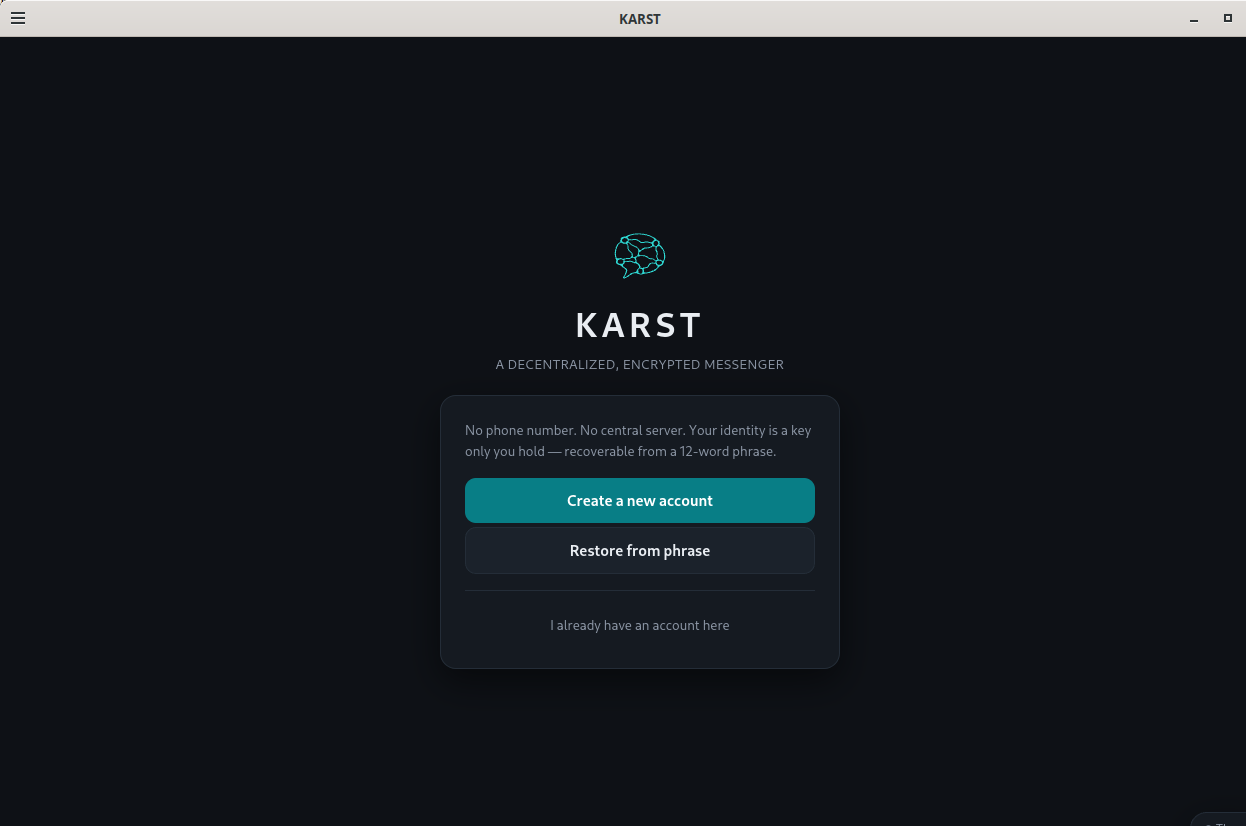
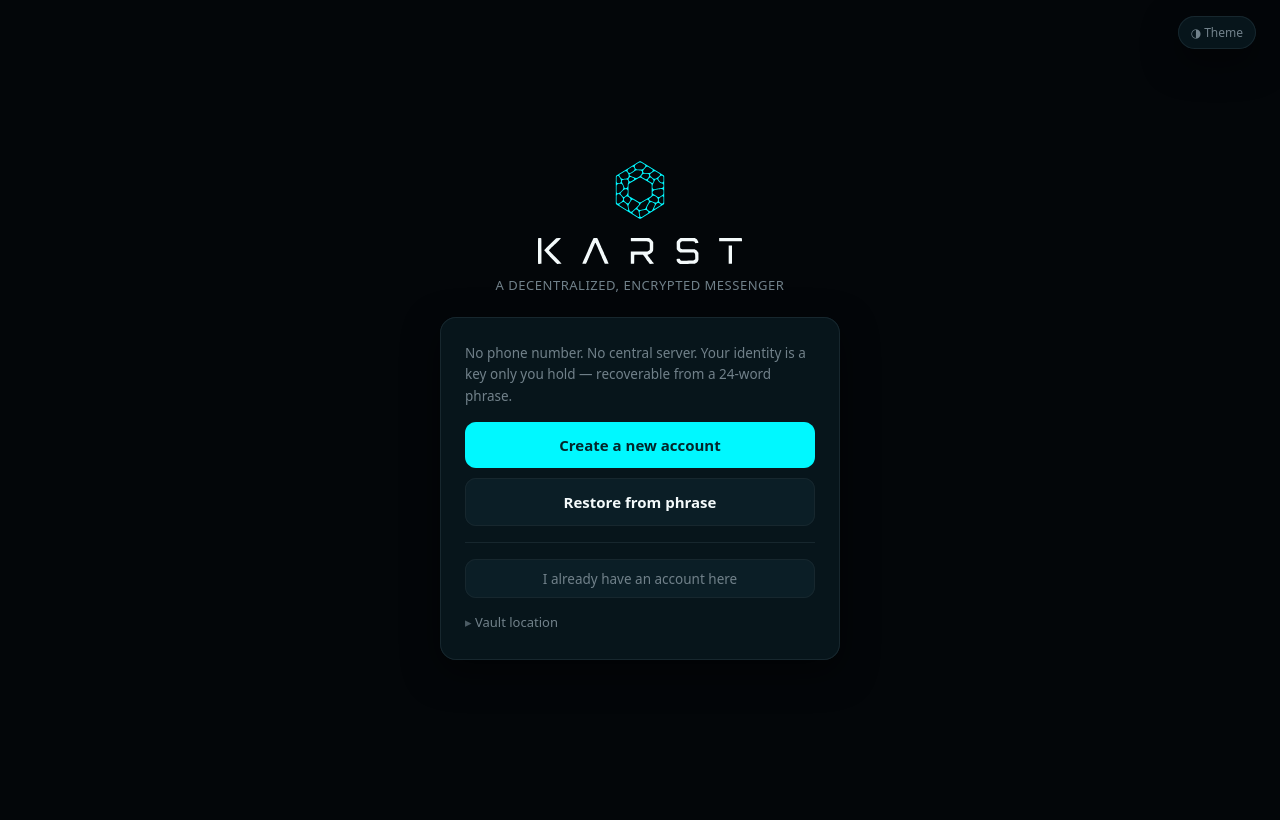
Re-take every screenshot in the README, by running the thing
All five images in "See it running" were eleven days old, and every one of them showed a product that
no longer exists.

- The desktop frames carried the old mark, the old teal, and a welcome screen reading "12-word
  phrase" — the phrase has been 24 words for a while. A README that states a false fact about the
  product is the same rot that killed the seed examples.
- The relay frame said "SKELETON, NOT for production" and listed six lines. The relay prints
  "REFERENCE build" and thirteen: QUIC, blob durability, mail durability, what admission rests on,
  the PoW bound, the node-list page, the admin socket, gossip, and the connect box.
- The messaging frame was a HAND-AUTHORED transcript, complete with a "# 12-word phrase" comment
  that was never program output, under a caption promising "real output from a real run".

Replaced with frames rendered from captured output. The relay banner and the demo transcript are
verbatim `karst-relay` / `scripts/karst-demo.sh` output with build noise and repeated carrier lines
removed and nothing added; the app and settings frames are the real UI. The relay command moved OUT
of the image into a copyable fenced block, because a command inside a PNG cannot be copied and — the
concrete reason — the first capture put a command in the frame that did not match the flags actually
used, so the picture disagreed with itself.

Two frames that had no place in the README now have one: a conversation with the safety number and a
[…]

diff --git a/impl/client/src/bin/karst.rs b/impl/client/src/bin/karst.rs
@@ -67,7 +67,7 @@ fn main() -> ExitCode {
 
 fn print_usage() {
     eprintln!(
-        "karst (SKELETON, not for production)\n\
+        "karst (REFERENCE, not for production)\n\
          \n\
          karst init                          create an account (prints the recovery phrase)\n\
          karst restore <24 words>            restore an account from the phrase (into an empty $KARST_HOME)\n\

diff --git a/README.md b/README.md
@@ -28,13 +28,28 @@ The desktop client — no phone number, no signup; your identity is a 24-word ph
 
 <p align="center"><img src="docs/assets/screenshot-desktop.png" alt="KARST desktop client" width="620"></p>
 
-Anyone can run a relay with one command. It is a dumb, untrusted mailbox — it never sees your plaintext, and it can be toggled (open door / proof-of-work / off) live, discover other relays, and gossip about them (verified before trusting):
+A conversation. The safety number in the right-hand panel is what you read aloud to confirm nobody swapped your contact's keys; an arriving file is hash-checked before it is offered to you.
 
-<p align="center"><img src="docs/assets/screenshot-relay.png" alt="Running a KARST relay" width="760"></p>
+<p align="center"><img src="docs/assets/screenshot-app.png" alt="A KARST conversation, with the contact panel and safety number" width="820"></p>
 
-Two clients messaging end-to-end through a relay, both directions — real output from a real run:
+Your identity itself has no address. What you hand out is a disposable channel, and burning one touches neither your identity nor your other channels — Settings is where you make them, and where a relay, Tor, i2p or a mixnet is configured:
 
-<p align="center"><img src="docs/assets/screenshot-messaging.png" alt="End-to-end messaging demo" width="620"></p>
+<p align="center"><img src="docs/assets/screenshot-settings.png" alt="KARST settings: profile, disposable channels, network and relays" width="720"></p>
+
+Anyone can run a relay with one command. It is a dumb, untrusted mailbox — it never sees your plaintext — and it says what it is at startup: what survives a restart, what admission actually rests on, and what it serves to other relays. Admission can be toggled live (open door / proof-of-work / off), and with peers configured it converges on their node lists, verifying every descriptor before trusting it:
+
+```sh
+KARST_RELAY_MODE=public KARST_RELAY_POW_BITS=20 \
+  KARST_RELAY_ADVERTISE=relay.example.org:9443 \
+  KARST_RELAY_PEERS=relay2.example.org:9443@<128-hex relay-id> \
+  karst-relay 0.0.0.0:9443
+```
+
+<p align="center"><img src="docs/assets/screenshot-relay.png" alt="Running a KARST relay" width="860"></p>
+
+Two clients through that relay: a message each way, a file that arrives with its SHA verified, and the same relay reached over QUIC instead of TCP. Verbatim output of `scripts/karst-demo.sh`, which CI runs on every push — build noise removed, nothing added:
+
+<p align="center"><img src="docs/assets/screenshot-messaging.png" alt="End-to-end messaging, file transfer and QUIC demo" width="780"></p>
 
 ---
 

diff --git a/docs/RUNNING.md b/docs/RUNNING.md
@@ -1,6 +1,6 @@
 # Running KARST locally
 
-> **SKELETON, NOT for production.** Brings up a dev relay with a public
+> **REFERENCE, NOT for production.** Brings up a dev relay with a public
 > capability secret; the crypto is a reference and unaudited (see
 > [STATUS.md](STATUS.md)). The goal is to run the whole system on one machine and
 > confirm that it works.
